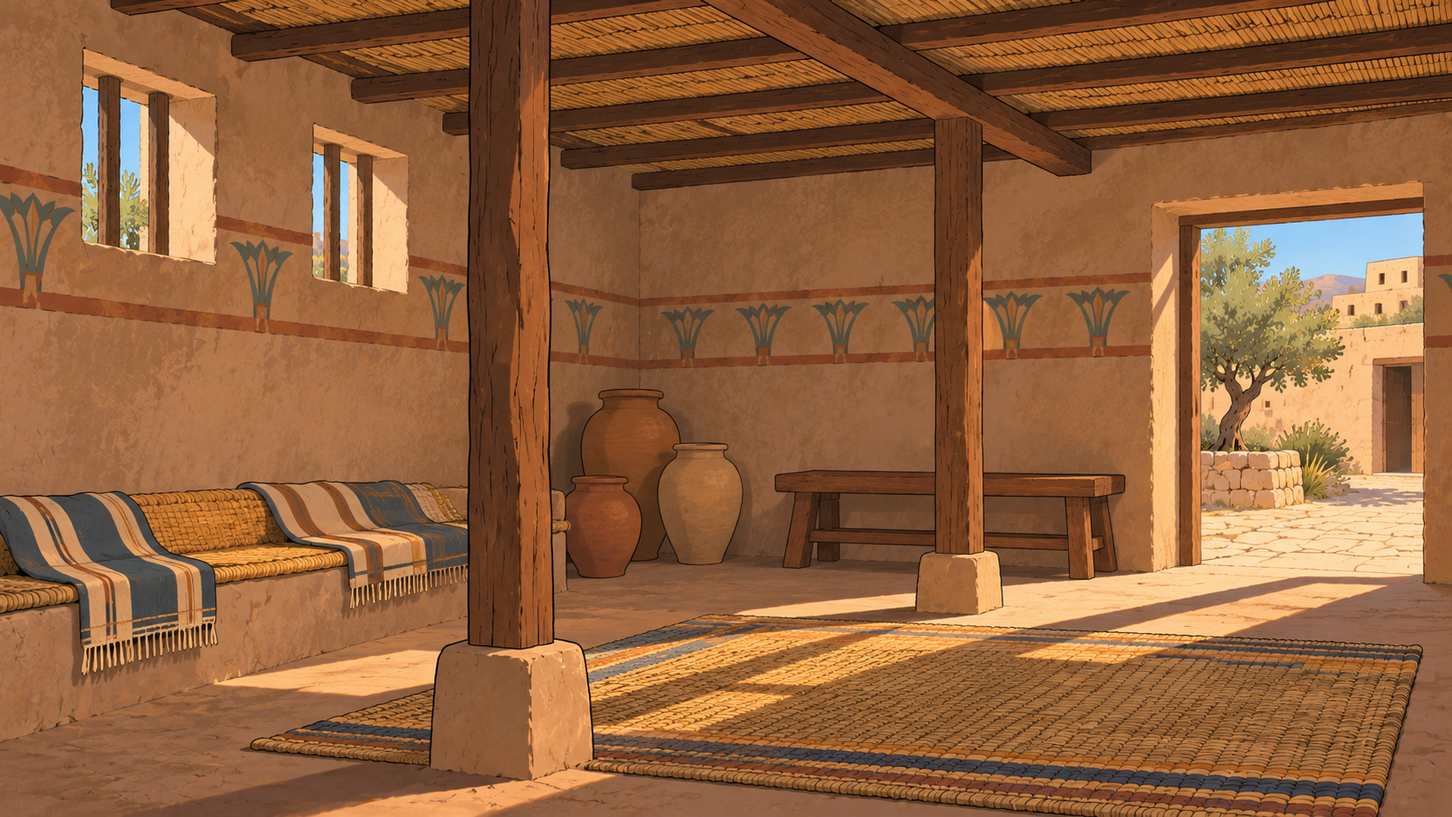
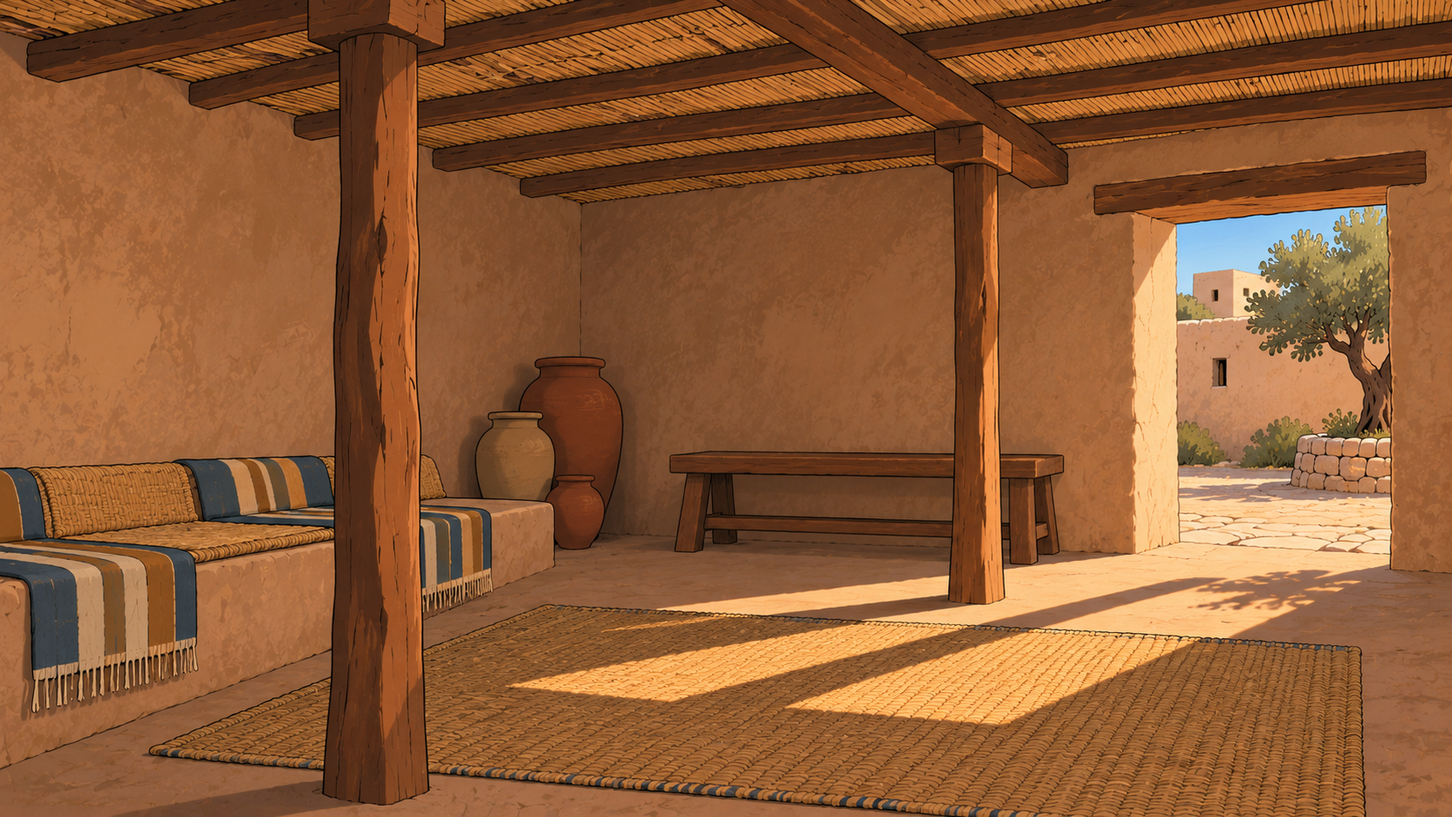
Siete escenarios regenerados; negativos contra friso egipcio y rama de esquina

diff --git a/guiones/escenarios/casa-betuel.md b/guiones/escenarios/casa-betuel.md
@@ -27,8 +27,8 @@ Generar en ChatGPT Images (o GPT Image en Higgsfield) y guardar como `guiones/im
 
 Adjuntar en ChatGPT las láminas patrón de estilo (ver `estilo.md`): `guiones/imagenes/estilo/patron-2-interior.png`, `guiones/imagenes/estilo/patron-3-grupo.png` (no `patron-1-paisaje.png`: copiaba su composición).
 
-_Una sola vista general del patio de una casa de familia en una ciudad pequeña del antiguo Oriente Próximo, a última hora de la tarde, sin personas ni animales. El patio, ancho y de tierra apisonada, está cerrado por muros de adobe enlucido. A lo largo de un lado hay un cobertizo abierto de ramas y cañas sobre postes de madera, con montones de paja y forraje debajo, y cerca un abrevadero de adobe, unas tinajas grandes de agua y una jofaina ancha de barro para lavar los pies. Al fondo, una habitación de techo plano se abre al patio y deja ver esteras de junco, una mesa baja de madera y lamparillas de aceite, y una escalera de adobe sube al tejado. Una luz cálida y baja de la tarde cruza el patio._ Evitar: _Sin lotos, papiros ni otros motivos egipcios, ni frisos ni franjas pintadas en las paredes: las paredes son de barro enlucido liso. Sin paneles ni dos momentos lado a lado. Sin personas, camellos, oro, joyas, cofres de tesoro ni alfombras lujosas. Que no sea un palacio, una villa romana ni un edificio con cúpulas y arcos apuntados._
+_Una sola vista general del patio de una casa de familia en una ciudad pequeña del antiguo Oriente Próximo, a última hora de la tarde, sin personas ni animales. El patio, ancho y de tierra apisonada, está cerrado por muros de adobe enlucido. A lo largo de un lado hay un cobertizo abierto de ramas y cañas sobre postes de madera, con montones de paja y forraje debajo, y cerca un abrevadero de adobe, unas tinajas grandes de agua y una jofaina ancha de barro para lavar los pies. Al fondo, una habitación de techo plano se abre al patio y deja ver esteras de junco, una mesa baja de madera y lamparillas de aceite, y una escalera de adobe sube al tejado. Una luz cálida y baja de la tarde cruza el patio._ Evitar: _Sin rama ni hojas de árbol colgando en una esquina como marco. Sin lotos, papiros ni otros motivos egipcios, ni frisos ni franjas pintadas en las paredes: las paredes son de barro enlucido liso. Sin paneles ni dos momentos lado a lado. Sin personas, camellos, oro, joyas, cofres de tesoro ni alfombras lujosas. Que no sea un palacio, una villa romana ni un edificio con cúpulas y arcos apuntados._
 
 ```text
-Create a frame from a 2D hand-drawn animated feature film, in a wide 16:9 frame and one consistent house style: clean, bold dark outlines; flat colors with crisp hard-edged cel shadows in one or two tones; simplified, slightly angular faces with strong jawlines, defined brows and expressive eyes; athletic but believable adult proportions. The backgrounds are softly painted, with more texture and atmosphere than the characters. Use a muted earthy palette of ochre, sand, olive, terracotta and deep blue, with natural light only: daylight, dusk or the glow of oil lamps. Base the people, their dress and the architecture on records of the ancient Near East, and keep the composition clear and readable. Match the line work, shading and palette of the attached style reference panels exactly. Make one single establishing view of the courtyard of a family house in a small town in the ancient Near East, in the late afternoon, with no people and no animals in it. The wide courtyard of beaten earth is enclosed by plastered mud-brick walls. Along one side runs an open shelter of branches and reeds on wooden posts, with heaps of straw and fodder under it, and nearby there is a mud-brick water trough, a few large clay water jars and a wide clay basin for washing feet. At the back, a room with a flat roof opens onto the courtyard, showing reed mats, a low wooden table and small oil lamps inside, and a mud-brick stair climbs to the roof. Warm, low evening light falls across the yard. Do not use photographic realism, 3D or CGI rendering, oil-paint or watercolor texture on the characters, anime or manga features, or chibi or cartoonish caricature. Do not add superhero costumes, capes, masks, emblems or exaggerated muscles. Avoid the look of a glossy video game or a Hollywood blockbuster. Do not add lens flares, neon, halos, glowing auras or wings. Do not include modern clothing or objects, medieval or Renaissance European costume, Roman armor or fantasy costume. Do not write any text, captions, speech balloons, panel borders, watermarks or logos. Show no blood or graphic violence and no heavy makeup. Do not paint lotus, papyrus or other Egyptian motifs, friezes or painted bands on the walls; the walls are plain mud plaster. Do not split the picture into panels or show two moments side by side. Do not paint people, camels, gold, jewelry, chests of treasure or rich carpets. Do not make it a palace, a Roman villa or a building with domes and pointed arches.
+Create a frame from a 2D hand-drawn animated feature film, in a wide 16:9 frame and one consistent house style: clean, bold dark outlines; flat colors with crisp hard-edged cel shadows in one or two tones; simplified, slightly angular faces with strong jawlines, defined brows and expressive eyes; athletic but believable adult proportions. The backgrounds are softly painted, with more texture and atmosphere than the characters. Use a muted earthy palette of ochre, sand, olive, terracotta and deep blue, with natural light only: daylight, dusk or the glow of oil lamps. Base the people, their dress and the architecture on records of the ancient Near East, and keep the composition clear and readable. Match the line work, shading and palette of the attached style reference panels exactly. Make one single establishing view of the courtyard of a family house in a small town in the ancient Near East, in the late afternoon, with no people and no animals in it. The wide courtyard of beaten earth is enclosed by plastered mud-brick walls. Along one side runs an open shelter of branches and reeds on wooden posts, with heaps of straw and fodder under it, and nearby there is a mud-brick water trough, a few large clay water jars and a wide clay basin for washing feet. At the back, a room with a flat roof opens onto the courtyard, showing reed mats, a low wooden table and small oil lamps inside, and a mud-brick stair climbs to the roof. Warm, low evening light falls across the yard. Do not use photographic realism, 3D or CGI rendering, oil-paint or watercolor texture on the characters, anime or manga features, or chibi or cartoonish caricature. Do not add superhero costumes, capes, masks, emblems or exaggerated muscles. Avoid the look of a glossy video game or a Hollywood blockbuster. Do not add lens flares, neon, halos, glowing auras or wings. Do not include modern clothing or objects, medieval or Renaissance European costume, Roman armor or fantasy costume. Do not write any text, captions, speech balloons, panel borders, watermarks or logos. Show no blood or graphic violence and no heavy makeup. Do not frame the picture with an overhanging tree branch or leaves in a corner. Do not paint lotus, papyrus or other Egyptian motifs, friezes or painted bands on the walls; the walls are plain mud plaster. Do not split the picture into panels or show two moments side by side. Do not paint people, camels, gold, jewelry, chests of treasure or rich carpets. Do not make it a palace, a Roman villa or a building with domes and pointed arches.
 ```

diff --git a/guiones/escenarios/pozo-nacor.md b/guiones/escenarios/pozo-nacor.md
@@ -33,8 +33,8 @@ Generar en ChatGPT Images (o GPT Image en Higgsfield) y guardar como `guiones/im
 
 Adjuntar en ChatGPT las láminas patrón de estilo (ver `estilo.md`): `guiones/imagenes/estilo/patron-2-interior.png`, `guiones/imagenes/estilo/patron-3-grupo.png` (no `patron-1-paisaje.png`: copiaba su composición).
 
-_Una sola vista general del lugar del agua fuera de una ciudad pequeña amurallada del antiguo Oriente Próximo, a última hora de la tarde, sin personas ni animales. En primer término, un hueco ancho en la tierra con escalones de piedra tosca que bajan a un pozo o manantial con agua oscura al fondo. Junto al hueco, a ras de suelo, una pila larga y baja de piedra para abrevar, y alrededor tierra apisonada con piedras sueltas. A poca distancia, detrás, los muros de adobe de la ciudad sobre un zócalo de piedra tosca, con una puerta sencilla y casas de techo plano que asoman sobre el muro, todo con luz cálida y baja de la tarde._ Evitar: _Sin paneles ni dos momentos lado a lado. Sin polea, torno, tejadillo sobre el pozo, cubo con cadena ni fuente tallada. Sin zigurats, templos, palacios, torres ni ladrillo vidriado. Sin personas, camellos, cántaros ni otros animales._
+_Una sola vista general del lugar del agua fuera de una ciudad pequeña amurallada del antiguo Oriente Próximo, a última hora de la tarde, sin personas ni animales. En primer término, un hueco ancho en la tierra con escalones de piedra tosca que bajan a un pozo o manantial con agua oscura al fondo. Junto al hueco, a ras de suelo, una pila larga y baja de piedra para abrevar, y alrededor tierra apisonada con piedras sueltas. A poca distancia, detrás, los muros de adobe de la ciudad sobre un zócalo de piedra tosca, con una puerta sencilla y casas de techo plano que asoman sobre el muro, todo con luz cálida y baja de la tarde._ Evitar: _Sin rama ni hojas de árbol colgando en una esquina como marco. Sin paneles ni dos momentos lado a lado. Sin polea, torno, tejadillo sobre el pozo, cubo con cadena ni fuente tallada. Sin zigurats, templos, palacios, torres ni ladrillo vidriado. Sin personas, camellos, cántaros ni otros animales._
 
 ```text
-Create a frame from a 2D hand-drawn animated feature film, in a wide 16:9 frame and one consistent house style: clean, bold dark outlines; flat colors with crisp hard-edged cel shadows in one or two tones; simplified, slightly angular faces with strong jawlines, defined brows and expressive eyes; athletic but believable adult proportions. The backgrounds are softly painted, with more texture and atmosphere than the characters. Use a muted earthy palette of ochre, sand, olive, terracotta and deep blue, with natural light only: daylight, dusk or the glow of oil lamps. Base the people, their dress and the architecture on records of the ancient Near East, and keep the composition clear and readable. Match the line work, shading and palette of the attached style reference panels exactly. Make one single establishing view of the water place outside a small walled town in the ancient Near East in the late afternoon, with no people and no animals in it. In the foreground, a wide opening in the ground has rough stone steps leading down to a well-spring with dark water at the bottom. Beside the opening, at ground level, stands a long, low stone trough for watering animals, and the ground around is beaten earth with scattered stones. A short walk behind rise the mud-brick walls of the town on a base of rough stones, with a plain gateway and flat-roofed houses showing above the wall, all in warm, low evening light. Do not use photographic realism, 3D or CGI rendering, oil-paint or watercolor texture on the characters, anime or manga features, or chibi or cartoonish caricature. Do not add superhero costumes, capes, masks, emblems or exaggerated muscles. Avoid the look of a glossy video game or a Hollywood blockbuster. Do not add lens flares, neon, halos, glowing auras or wings. Do not include modern clothing or objects, medieval or Renaissance European costume, Roman armor or fantasy costume. Do not write any text, captions, speech balloons, panel borders, watermarks or logos. Show no blood or graphic violence and no heavy makeup. Do not split the picture into panels or show two moments side by side. Do not add a pulley, a winch, a roof over the well, a bucket on a chain or a carved fountain. Do not paint ziggurats, temples, palaces, towers or glazed bricks. Do not paint people, camels, jars or any other animals.
+Create a frame from a 2D hand-drawn animated feature film, in a wide 16:9 frame and one consistent house style: clean, bold dark outlines; flat colors with crisp hard-edged cel shadows in one or two tones; simplified, slightly angular faces with strong jawlines, defined brows and expressive eyes; athletic but believable adult proportions. The backgrounds are softly painted, with more texture and atmosphere than the characters. Use a muted earthy palette of ochre, sand, olive, terracotta and deep blue, with natural light only: daylight, dusk or the glow of oil lamps. Base the people, their dress and the architecture on records of the ancient Near East, and keep the composition clear and readable. Match the line work, shading and palette of the attached style reference panels exactly. Make one single establishing view of the water place outside a small walled town in the ancient Near East in the late afternoon, with no people and no animals in it. In the foreground, a wide opening in the ground has rough stone steps leading down to a well-spring with dark water at the bottom. Beside the opening, at ground level, stands a long, low stone trough for watering animals, and the ground around is beaten earth with scattered stones. A short walk behind rise the mud-brick walls of the town on a base of rough stones, with a plain gateway and flat-roofed houses showing above the wall, all in warm, low evening light. Do not use photographic realism, 3D or CGI rendering, oil-paint or watercolor texture on the characters, anime or manga features, or chibi or cartoonish caricature. Do not add superhero costumes, capes, masks, emblems or exaggerated muscles. Avoid the look of a glossy video game or a Hollywood blockbuster. Do not add lens flares, neon, halos, glowing auras or wings. Do not include modern clothing or objects, medieval or Renaissance European costume, Roman armor or fantasy costume. Do not write any text, captions, speech balloons, panel borders, watermarks or logos. Show no blood or graphic violence and no heavy makeup. Do not frame the picture with an overhanging tree branch or leaves in a corner. Do not split the picture into panels or show two moments side by side. Do not add a pulley, a winch, a roof over the well, a bucket on a chain or a carved fountain. Do not paint ziggurats, temples, palaces, towers or glazed bricks. Do not paint people, camels, jars or any other animals.
 ```

diff --git a/guiones/escenarios/sodoma.md b/guiones/escenarios/sodoma.md
@@ -23,8 +23,8 @@ Generar en ChatGPT Images (o GPT Image en Higgsfield) y guardar como `guiones/im
 
 Adjuntar en ChatGPT las láminas patrón de estilo (ver `estilo.md`): `guiones/imagenes/estilo/patron-2-interior.png`, `guiones/imagenes/estilo/patron-3-grupo.png` (no `patron-1-paisaje.png`: copiaba su composición).
 
-_Una sola vista general de la puerta de una ciudad amurallada en una llanura fértil del antiguo Oriente Próximo, a la caída de la tarde y sin personas. Una muralla de adobe sobre un zócalo de piedra tosca se extiende a los dos lados, y la puerta es un paso hondo entre dos torres bajas y cuadradas, con batientes de madera pesados abiertos y bancos sencillos de piedra a lo largo de las paredes del paso. Por la puerta se ven una plaza pequeña y casas de adobe de techo plano. Fuera de la muralla hay campos verdes de riego, y la luz es el naranja cálido del atardecer, con sombras largas._ Evitar: _Sin paneles ni dos momentos lado a lado. Sin fuego, humo, ruinas, palacio, templos, ídolos, estatuas, soldados, estandartes ni personas. Que la ciudad no parezca malvada ni monstruosa; sin monstruos tallados, calaveras ni cielo oscuro de tormenta._
+_Una sola vista general de la puerta de una ciudad amurallada en una llanura fértil del antiguo Oriente Próximo, a la caída de la tarde y sin personas. Una muralla de adobe sobre un zócalo de piedra tosca se extiende a los dos lados, y la puerta es un paso hondo entre dos torres bajas y cuadradas, con batientes de madera pesados abiertos y bancos sencillos de piedra a lo largo de las paredes del paso. Por la puerta se ven una plaza pequeña y casas de adobe de techo plano. Fuera de la muralla hay campos verdes de riego, y la luz es el naranja cálido del atardecer, con sombras largas._ Evitar: _Sin lotos, papiros ni otros motivos egipcios, ni frisos ni franjas pintadas en muros o torres: barro enlucido liso. Sin paneles ni dos momentos lado a lado. Sin fuego, humo, ruinas, palacio, templos, ídolos, estatuas, soldados, estandartes ni personas. Que la ciudad no parezca malvada ni monstruosa; sin monstruos tallados, calaveras ni cielo oscuro de tormenta._
 
 ```text
-Create a frame from a 2D hand-drawn animated feature film, in a wide 16:9 frame and one consistent house style: clean, bold dark outlines; flat colors with crisp hard-edged cel shadows in one or two tones; simplified, slightly angular faces with strong jawlines, defined brows and expressive eyes; athletic but believable adult proportions. The backgrounds are softly painted, with more texture and atmosphere than the characters. Use a muted earthy palette of ochre, sand, olive, terracotta and deep blue, with natural light only: daylight, dusk or the glow of oil lamps. Base the people, their dress and the architecture on records of the ancient Near East, and keep the composition clear and readable. Match the line work, shading and palette of the attached style reference panels exactly. Make one single establishing view of the gateway of a walled town on a fertile plain in the ancient Near East at dusk, with no people in it. A mud-brick wall on a base of rough stones runs to both sides, and the gate is a deep passage between two low, square towers, with heavy wooden doors standing open and plain stone benches along the inner walls of the passage. Through the gateway can be seen a small open square and flat-roofed mud-brick houses. Green irrigated fields lie outside the wall, and the light is the warm orange of late evening, with long shadows. Do not use photographic realism, 3D or CGI rendering, oil-paint or watercolor texture on the characters, anime or manga features, or chibi or cartoonish caricature. Do not add superhero costumes, capes, masks, emblems or exaggerated muscles. Avoid the look of a glossy video game or a Hollywood blockbuster. Do not add lens flares, neon, halos, glowing auras or wings. Do not include modern clothing or objects, medieval or Renaissance European costume, Roman armor or fantasy costume. Do not write any text, captions, speech balloons, panel borders, watermarks or logos. Show no blood or graphic violence and no heavy makeup. Do not split the picture into panels or show two moments side by side. Do not paint fire, smoke, ruins, a palace, temples, idols, statues, soldiers, banners or any person. Do not make the town look evil or monstrous, and do not add carved monsters, skulls or a dark, stormy sky.
+Create a frame from a 2D hand-drawn animated feature film, in a wide 16:9 frame and one consistent house style: clean, bold dark outlines; flat colors with crisp hard-edged cel shadows in one or two tones; simplified, slightly angular faces with strong jawlines, defined brows and expressive eyes; athletic but believable adult proportions. The backgrounds are softly painted, with more texture and atmosphere than the characters. Use a muted earthy palette of ochre, sand, olive, terracotta and deep blue, with natural light only: daylight, dusk or the glow of oil lamps. Base the people, their dress and the architecture on records of the ancient Near East, and keep the composition clear and readable. Match the line work, shading and palette of the attached style reference panels exactly. Make one single establishing view of the gateway of a walled town on a fertile plain in the ancient Near East at dusk, with no people in it. A mud-brick wall on a base of rough stones runs to both sides, and the gate is a deep passage between two low, square towers, with heavy wooden doors standing open and plain stone benches along the inner walls of the passage. Through the gateway can be seen a small open square and flat-roofed mud-brick houses. Green irrigated fields lie outside the wall, and the light is the warm orange of late evening, with long shadows. Do not use photographic realism, 3D or CGI rendering, oil-paint or watercolor texture on the characters, anime or manga features, or chibi or cartoonish caricature. Do not add superhero costumes, capes, masks, emblems or exaggerated muscles. Avoid the look of a glossy video game or a Hollywood blockbuster. Do not add lens flares, neon, halos, glowing auras or wings. Do not include modern clothing or objects, medieval or Renaissance European costume, Roman armor or fantasy costume. Do not write any text, captions, speech balloons, panel borders, watermarks or logos. Show no blood or graphic violence and no heavy makeup. Do not paint lotus, papyrus or other Egyptian motifs, friezes or painted bands on the walls or towers; the walls are plain mud plaster. Do not split the picture into panels or show two moments side by side. Do not paint fire, smoke, ruins, a palace, temples, idols, statues, soldiers, banners or any person. Do not make the town look evil or monstrous, and do not add carved monsters, skulls or a dark, stormy sky.
 ```

diff --git a/guiones/escenarios/puerta-het.md b/guiones/escenarios/puerta-het.md
@@ -26,8 +26,8 @@ Generar en ChatGPT Images (o GPT Image en Higgsfield) y guardar como `guiones/im
 
 Adjuntar en ChatGPT las láminas patrón de estilo (ver `estilo.md`): `guiones/imagenes/estilo/patron-2-interior.png`, `guiones/imagenes/estilo/patron-3-grupo.png` (no `patron-1-paisaje.png`: copiaba su composición).
 
-_Una sola vista general de la puerta de una ciudad pequeña de colina en Canaán, en el antiguo Oriente Próximo, de día y sin personas. La muralla es de piedras toscas sin labrar abajo y de adobe arriba, y la puerta es un paso corto entre dos torres bajas, con batientes de madera pesados abiertos y bancos sencillos de piedra a lo largo de las paredes del paso. Delante de la puerta hay una explanada pequeña de tierra apisonada donde puede reunirse gente. Detrás de la muralla, casas de techo plano suben por la ladera de la colina bajo un cielo despejado._ Evitar: _Sin paneles ni dos momentos lado a lado. Sin palacio, templos, estatuas, soldados, estandartes, mercado, balanzas, plata ni personas. Que no sea la puerta de un castillo medieval con almenas y rastrillo._
+_Una sola vista general de la puerta de una ciudad pequeña de colina en Canaán, en el antiguo Oriente Próximo, de día y sin personas. La muralla es de piedras toscas sin labrar abajo y de adobe arriba, y la puerta es un paso corto entre dos torres bajas, con batientes de madera pesados abiertos y bancos sencillos de piedra a lo largo de las paredes del paso. Delante de la puerta hay una explanada pequeña de tierra apisonada donde puede reunirse gente. Detrás de la muralla, casas de techo plano suben por la ladera de la colina bajo un cielo despejado._ Evitar: _Sin rama ni hojas de árbol colgando en una esquina como marco. Sin paneles ni dos momentos lado a lado. Sin palacio, templos, estatuas, soldados, estandartes, mercado, balanzas, plata ni personas. Que no sea la puerta de un castillo medieval con almenas y rastrillo._
 
 ```text
-Create a frame from a 2D hand-drawn animated feature film, in a wide 16:9 frame and one consistent house style: clean, bold dark outlines; flat colors with crisp hard-edged cel shadows in one or two tones; simplified, slightly angular faces with strong jawlines, defined brows and expressive eyes; athletic but believable adult proportions. The backgrounds are softly painted, with more texture and atmosphere than the characters. Use a muted earthy palette of ochre, sand, olive, terracotta and deep blue, with natural light only: daylight, dusk or the glow of oil lamps. Base the people, their dress and the architecture on records of the ancient Near East, and keep the composition clear and readable. Match the line work, shading and palette of the attached style reference panels exactly. Make one single establishing view of the gateway of a small hill town in Canaan in the ancient Near East, by day, with no people in it. The town wall is built of rough, uncut stones below and mud brick above, and the gate is a short passage between two low towers, with heavy wooden doors standing open and plain stone benches along the walls inside the passage. In front of the gate lies a small open space of beaten earth where people could gather. Behind the wall, flat-roofed houses climb the slope of the hill under a clear sky. Do not use photographic realism, 3D or CGI rendering, oil-paint or watercolor texture on the characters, anime or manga features, or chibi or cartoonish caricature. Do not add superhero costumes, capes, masks, emblems or exaggerated muscles. Avoid the look of a glossy video game or a Hollywood blockbuster. Do not add lens flares, neon, halos, glowing auras or wings. Do not include modern clothing or objects, medieval or Renaissance European costume, Roman armor or fantasy costume. Do not write any text, captions, speech balloons, panel borders, watermarks or logos. Show no blood or graphic violence and no heavy makeup. Do not split the picture into panels or show two moments side by side. Do not paint a palace, temples, statues, soldiers, banners, a market, scales, silver or any person. Do not make it a medieval castle gate with battlements and a portcullis.
+Create a frame from a 2D hand-drawn animated feature film, in a wide 16:9 frame and one consistent house style: clean, bold dark outlines; flat colors with crisp hard-edged cel shadows in one or two tones; simplified, slightly angular faces with strong jawlines, defined brows and expressive eyes; athletic but believable adult proportions. The backgrounds are softly painted, with more texture and atmosphere than the characters. Use a muted earthy palette of ochre, sand, olive, terracotta and deep blue, with natural light only: daylight, dusk or the glow of oil lamps. Base the people, their dress and the architecture on records of the ancient Near East, and keep the composition clear and readable. Match the line work, shading and palette of the attached style reference panels exactly. Make one single establishing view of the gateway of a small hill town in Canaan in the ancient Near East, by day, with no people in it. The town wall is built of rough, uncut stones below and mud brick above, and the gate is a short passage between two low towers, with heavy wooden doors standing open and plain stone benches along the walls inside the passage. In front of the gate lies a small open space of beaten earth where people could gather. Behind the wall, flat-roofed houses climb the slope of the hill under a clear sky. Do not use photographic realism, 3D or CGI rendering, oil-paint or watercolor texture on the characters, anime or manga features, or chibi or cartoonish caricature. Do not add superhero costumes, capes, masks, emblems or exaggerated muscles. Avoid the look of a glossy video game or a Hollywood blockbuster. Do not add lens flares, neon, halos, glowing auras or wings. Do not include modern clothing or objects, medieval or Renaissance European costume, Roman armor or fantasy costume. Do not write any text, captions, speech balloons, panel borders, watermarks or logos. Show no blood or graphic violence and no heavy makeup. Do not frame the picture with an overhanging tree branch or leaves in a corner. Do not split the picture into panels or show two moments side by side. Do not paint a palace, temples, statues, soldiers, banners, a market, scales, silver or any person. Do not make it a medieval castle gate with battlements and a portcullis.
 ```
